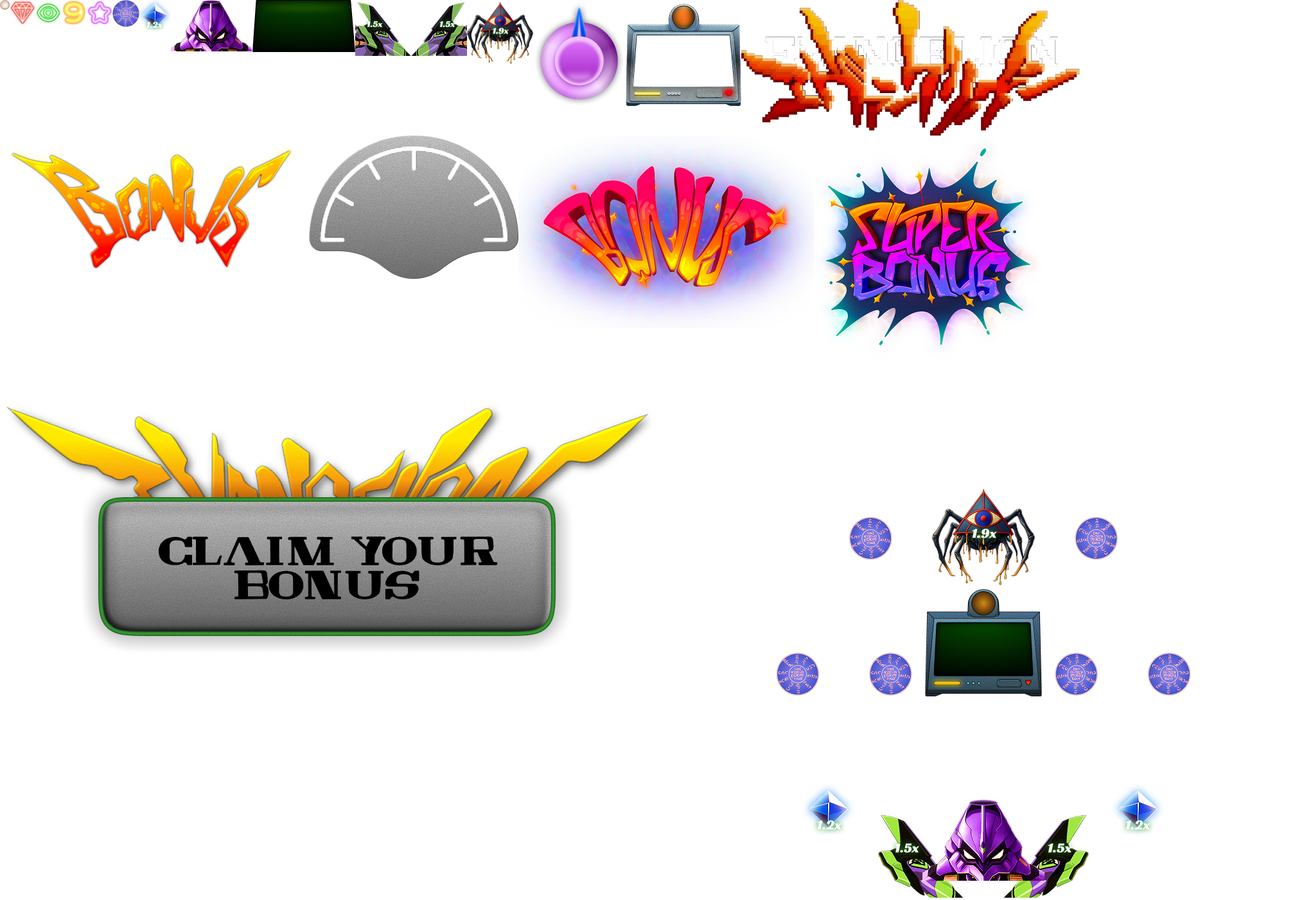
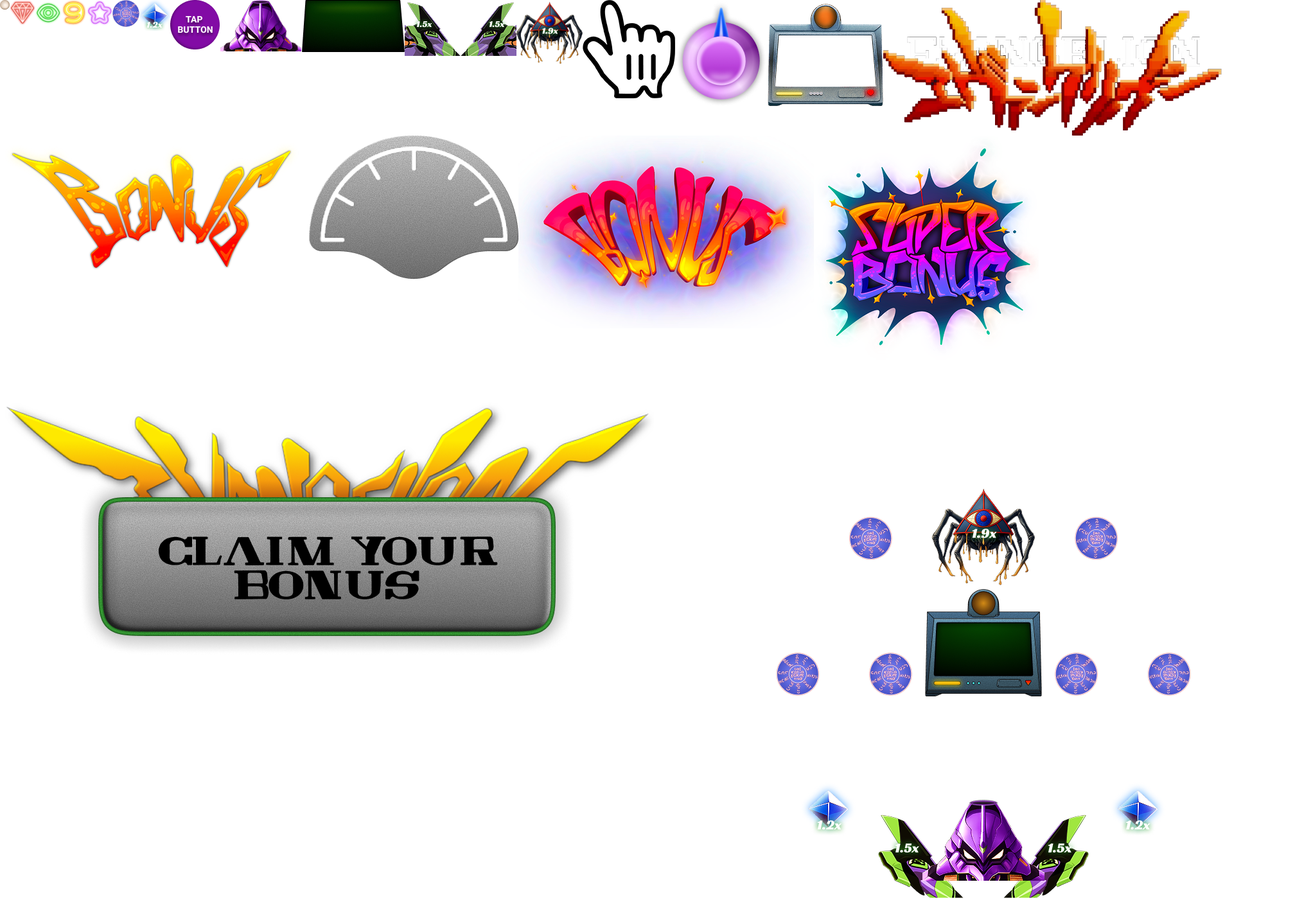
preloader, arrow rotation

Changed region(s): [[0.1233, 0.0, 0.9247, 0.1535], [0.8938, 0.0, 0.9247, 0.0307]]

diff --git a/dist/assets/index-rZJDMdEi.js b/dist/assets/index-rZJDMdEi.js
@@ -6342,4 +6342,4 @@ return new `+this.key+`();
  * @author       Richard Davey <rich@phaser.io>
  * @copyright    2013-2024 Phaser Studio Inc.
  * @license      {@link https://opensource.org/licenses/MIT|MIT License}
- */p.exports={Format:t(27902),Pad:t(41836),RemoveAt:t(33628),Reverse:t(27671),UppercaseFirst:t(35355),UUID:t(45650)}}},ft={};function ot(p){var S=ft[p];if(S!==void 0)return S.exports;var t=ft[p]={exports:{}};return rt[p](t,t.exports,ot),t.exports}ot.g=function(){if(typeof globalThis=="object")return globalThis;try{return this||new Function("return this")()}catch{if(typeof window=="object")return window}}();var dt=ot(85454);return dt})())})(Ot);var Bt=Ot.exports;const Ft=wt(Bt),Pt=1026,At=840,Lt=0,gt=.99,Mt=105,Rt=235;class It extends Ft.Scene{constructor(){super(...arguments),this.isProcessing=!1,this.isMoving=!1,this.gameContainer=null,this.tapeContainer=null,this.gameBackContainer=null,this.isDragging=!1,this.backContainer=null,this.uiContainer=null,this.speedBtn=null,this.speedBack=null,this.bonusSprite=null,this.downloadBtn=null,this.endTitle=null,this.step=0,this.soundBtn=null,this.tutorSprite=null,this.tutorTween=null,this.ambSound=null,this.isLooping=!0,this.video=null,this.fieldSprite=null,this.frameSprite=null,this.ballSprite=null,this.t1active=!1,this.time1=null,this.angle1=null,this.ambSound=null,this.isSoundEnable=!0,this.gameStep=0,this.bg=null,this.bgScale=1,this.bgItemScale=1,this.fieldScale=1,this.pushScale=1,this.shiftX=0,this.shiftY=0,this.offsetX=0,this.fieldW=1026,this.fielfH=840}preload(){this.load.atlas("main","assets/pach1.png","assets/pach1.json"),this.load.image("endbg","assets/background.jpg"),this.load.image("fr1","assets/frame.png"),this.load.video("v1","assets/v1.mp4"),this.load.audio("ball","assets/ball.mp3"),this.load.audio("click","assets/click.mp3"),this.load.audio("sndbg","assets/background.mp3")}create(){this.bgScale=window.innerWidth>window.innerHeight?this.scale.width/2048:this.scale.height/2048,this.bg=this.add.sprite(this.scale.width/2,this.scale.height/2,"endbg").setOrigin(.5,.5).setScale(this.bgScale),this.backContainer=this.add.container(),this.gameBackContainer=this.add.container(),this.video=this.add.video(this.fieldW/2,18+this.fielfH/2,"v1").setOrigin(.5,.5).setMute(!0),this.video.setScale(.72),this.video.play(!0),this.video.on("created",()=>{console.log("v created"),this.video.video.currentTime=0,this.video.play(!0)}),this.gameBackContainer.add(this.video),this.frameSprite=this.add.sprite(this.fieldW/2,18+this.fielfH/2,"fr1").setOrigin(.5,.5).setScale(.95),this.fieldSprite=this.add.sprite(this.fieldW/2,this.fielfH/2,"main","board.png").setOrigin(.5,.5),this.gameBackContainer.add(this.frameSprite),this.gameBackContainer.add(this.fieldSprite),this.ballSprite=this.add.sprite(Mt,Rt,"main","ball.png").setOrigin(.5,.5).setVisible(!1),this.gameContainer=this.add.container(),this.gameScaleContainer=this.add.container(),this.gameContainer.add(this.gameScaleContainer),this.gameScaleContainer.add(this.ballSprite),this.uiContainer=this.add.container(),this.speedBack=this.add.sprite(850,750,"main","button_back.png").setScale(.8).setOrigin(.5,.5),this.speedBtn=this.add.sprite(850,770,"main","button.png").setScale(.8).setOrigin(.5,.7).setInteractive(),this.bonusSprite=this.add.sprite(Pt/2,-1400,"main","bonus.png").setOrigin(.5,.5).setScale(.6),this.uiContainer.add(this.speedBack),this.uiContainer.add(this.speedBtn),this.uiContainer.add(this.bonusSprite),this.gameBackContainer.setScale(this.fieldScale),this.gameContainer.setScale(this.fieldScale),this.uiContainer.setScale(this.fieldScale),this.scale.on("resize",this.resizeGame,this),this.resizeGame(),this.speedBtn.on("pointerdown",()=>{this.isMoving||(this.step++,this.sound.play("click"),this.video.video.currentTime=2.03,this.video.play(!0),this.step==1?this.startGT1():this.step==3?this.startRT1():this.step==5&&this.startBT1())}),this.startGame(),this.ambSound=this.sound.add("sndbg"),this.ambSound.play({loop:!0})}newStep(){(this.step==2||this.step==4||this.step==6||this.step==7)&&(this.step==6&&this.bonusSprite.setFrame("super bonus.png"),this.step==7&&this.bonusSprite.setFrame("cta.png"),this.video.stop(),this.video.video.currentTime=this.step>=6?4.24:0,this.video.play(!0),this.isMoving=!0,this.tweens.add({targets:this.bonusSprite,y:At/2,duration:300,ease:"Linear",onComplete:()=>{this.tweens.add({targets:this.bonusSprite,y:At/2,duration:this.step==6?1500:1200,ease:"Sine.In",onComplete:()=>{console.log(this.step),this.step<7&&(this.bonusSprite.y=-1400,this.step<6&&(this.isMoving=!1)),this.step==6&&(this.step++,this.newStep())}})}}))}startGT1(){this.isMoving=!0,this.ballSprite.x=Mt,this.ballSprite.y=Rt,this.ballSprite.setVisible(!0);const et=75+265/2,rt=340;this.tweens.add({targets:this.ballSprite,x:et,duration:500,ease:"Linear",onComplete:()=>{this.tweens.add({targets:this.ballSprite,x:rt,duration:500,ease:"Linear"}),this.tweens.add({targets:this.ballSprite,y:230,duration:500,ease:"Sine.In",onComplete:()=>{this.startGT2()}})}}),this.tweens.add({targets:this.ballSprite,y:40,duration:500,ease:"Sine.Out"})}startGT2(){this.tweens.add({targets:this.ballSprite,x:200,duration:500,ease:"Linear",onComplete:()=>{this.startGT3()}}),this.tweens.add({targets:this.ballSprite,y:410,duration:500,ease:"Sine.In"})}startGT3(){this.tweens.add({targets:this.ballSprite,x:275,duration:500,ease:"Linear",onComplete:()=>{this.startEndGT()}}),this.tweens.add({targets:this.ballSprite,y:510,duration:500,ease:"Sine.In"})}startEndGT(){const p="Sine.InOut";this.tweens.add({targets:this.ballSprite,x:261,y:545,duration:150,ease:p,onComplete:()=>{this.tweens.add({targets:this.ballSprite,x:275,y:510+2*35,duration:150,ease:p,onComplete:()=>{this.tweens.add({targets:this.ballSprite,x:261,y:510+3*35,duration:150,ease:p,onComplete:()=>{this.tweens.add({targets:this.ballSprite,x:275,y:510+4*35+20,duration:150,ease:p,onComplete:()=>{this.ballSprite.setVisible(!1),this.isMoving=!1,this.step++,this.sound.play("ball"),this.newStep()}})}})}})}})}startRT1(){this.isMoving=!0,this.ballSprite.x=Mt,this.ballSprite.y=Rt,this.ballSprite.setVisible(!0);const et=75+265/2,rt=340;this.tweens.add({targets:this.ballSprite,x:et,duration:500,ease:"Linear",onComplete:()=>{this.tweens.add({targets:this.ballSprite,x:rt,duration:500,ease:"Linear"}),this.tweens.add({targets:this.ballSprite,y:230,duration:500,ease:"Sine.In",onComplete:()=>{this.startRT2()}})}}),this.tweens.add({targets:this.ballSprite,y:40,duration:500,ease:"Sine.Out"})}startRT2(){this.tweens.add({targets:this.ballSprite,x:200,duration:500,ease:"Linear",onComplete:()=>{this.startRT3()}}),this.tweens.add({targets:this.ballSprite,y:410,duration:500,ease:"Sine.In"})}startRT3(){this.tweens.add({targets:this.ballSprite,x:275,duration:500,ease:"Linear",onComplete:()=>{this.startERT1()}}),this.tweens.add({targets:this.ballSprite,y:510,duration:500,ease:"Sine.In"})}startERT1(){this.ballSprite.x=275,this.ballSprite.y=510;const ft=275,ot=510,dt=150,p="Sine.InOut";this.tweens.chain({targets:this.ballSprite,tweens:[{x:ft+30,y:ot-20,duration:dt,ease:p},{x:ft+18,y:ot+40,duration:dt*1.1,ease:p}],onComplete:()=>{this.startERT2()}})}startERT2(){this.tweens.add({targets:this.ballSprite,x:374,duration:250,ease:"Linear",onComplete:()=>{this.startERT3()}}),this.tweens.add({targets:this.ballSprite,y:586,duration:250,ease:"Cubic.In"})}startERT3(){this.tweens.add({targets:this.ballSprite,x:435,duration:200,ease:"Linear",onComplete:()=>{this.startERT4()}}),this.tweens.add({targets:this.ballSprite,y:556,duration:200/2,ease:"Easy.In",yoyo:!0})}startERT4(){const rt=Pt/2,ft=685;this.tweens.add({targets:this.ballSprite,x:rt,duration:250,ease:"Linear",onComplete:()=>{this.ballSprite.setVisible(!1),this.isMoving=!1,this.step++,this.sound.play("ball"),this.newStep()}}),this.tweens.add({targets:this.ballSprite,y:ft,duration:250,ease:"Cubic.In"})}startBT1(){console.log(this.time.now),this.isMoving=!0,this.ballSprite.x=Mt,this.ballSprite.y=Rt,this.ballSprite.setVisible(!0);const et=280,rt=454;this.tweens.add({targets:this.ballSprite,x:et,duration:500*gt,ease:"Linear",onComplete:()=>{this.tweens.add({targets:this.ballSprite,x:rt,duration:500,ease:"Linear"}),this.tweens.add({targets:this.ballSprite,y:136,duration:500*gt,ease:"Sine.In",onComplete:()=>{this.startBT2()}})}}),this.tweens.add({targets:this.ballSprite,y:70,duration:500*gt,ease:"Sine.Out"})}startBT2(){const ft=100*gt,ot="Sine.InOut";this.tweens.chain({targets:this.ballSprite,tweens:[{x:484,y:136,duration:ft,ease:ot},{x:514,y:199,duration:ft*1.6,ease:ot}],onComplete:()=>{this.startBT3()}})}startBT3(){this.tweens.add({targets:this.ballSprite,x:575,duration:300*gt,ease:"Linear",onComplete:()=>{}}),this.tweens.add({targets:this.ballSprite,y:96,duration:200*gt,ease:"Sine.In",onComplete:()=>{this.tweens.add({targets:this.ballSprite,y:136,duration:100*gt,ease:"Sine.In",onComplete:()=>{this.startBT4()}})}})}startBT4(){this.tweens.add({targets:this.ballSprite,x:660,duration:260*gt,ease:"Linear",onComplete:()=>{}}),this.tweens.add({targets:this.ballSprite,y:175,duration:260*gt,ease:"Sine.In",onComplete:()=>{this.startBT5()}})}startBT5(){this.tweens.add({targets:this.ballSprite,x:739,duration:360*gt,ease:"Linear",onComplete:()=>{}}),this.tweens.add({targets:this.ballSprite,y:295,duration:360*gt,ease:"Sine.In",onComplete:()=>{this.startBT6()}})}startBT6(){this.tweens.add({targets:this.ballSprite,x:620,duration:460*gt,ease:"Linear",onComplete:()=>{}}),this.tweens.add({targets:this.ballSprite,y:495,duration:460*gt,ease:"Sine.In",onComplete:()=>{this.startBT7()}})}startBT7(){this.tweens.add({targets:this.ballSprite,x:625,duration:260*gt,ease:"Linear",onComplete:()=>{}}),this.tweens.add({targets:this.ballSprite,y:585,duration:260*gt,ease:"Sine.In",onComplete:()=>{this.startBT8()}})}startBT8(){this.tweens.add({targets:this.ballSprite,x:645,duration:260*gt,ease:"Linear",onComplete:()=>{}}),this.tweens.add({targets:this.ballSprite,y:720,duration:260*gt,ease:"Sine.In",onComplete:()=>{this.ballSprite.setVisible(!1),this.isMoving=!1,this.step++,this.sound.play("ball"),console.log(this.time.now),this.newStep()}})}startGame(){}stopTutorial(){}update(){if(this.isLooping&&this.video.isPlaying){const et=this.video.getCurrentTime();et>=1.15&&this.step==0&&(this.video.stop(),this.video.video.currentTime=0,this.video.play(!0)),et>=4.06&&(this.step==1||this.step==3)&&(this.video.stop(),this.video.video.currentTime=2.03,this.video.play(!0)),et>=7&&this.step==5&&this.video.stop(),et>=1.15&&(this.step==2||this.step==4)&&(this.video.stop(),this.video.video.currentTime=this.step==2?0:.24,this.video.play(!0)),et>=7.2&&this.step==6&&(this.video.stop(),this.video.video.currentTime=4.24,this.video.play(!0))}}startEndScreen(){}resizeGame(){let et=1,rt=1,ft=0,ot=0,dt=(window.innerWidth>window.innerHeight,0);window.innerWidth>window.innerHeight?(et=window.innerHeight/window.innerWidth,ft=1024*(1-et)):(rt=window.innerWidth/window.innerHeight,ot=1024*(1-rt)),this.bgScale=window.innerWidth>window.innerHeight?this.scale.width/2048:this.scale.height/2048,this.fieldScale=window.innerWidth<window.innerHeight?this.scale.width/Pt:this.scale.height/At,this.shiftX=(this.scale.width-this.fieldScale*(dt*2+Pt))/2,this.shiftY=(this.scale.height-this.fieldScale*At)/2-20,this.gameBackContainer.setScale(this.fieldScale*et,this.fieldScale*rt),this.gameContainer.setScale(this.fieldScale*et,this.fieldScale*rt),this.uiContainer.setScale(this.fieldScale*et,this.fieldScale*rt),this.gameBackContainer.x=this.shiftX+ft-2*(Lt-dt),this.gameContainer.x=this.shiftX+ft-2*(Lt-dt),this.uiContainer.x=this.shiftX+ft-2*(Lt-dt);const p=60;this.gameBackContainer.y=this.shiftY+ot-p,this.gameContainer.y=this.shiftY+ot-p,this.uiContainer.y=this.shiftY+ot-p;const S=et>rt?et/rt:rt/et;this.bg.setScale(this.bgScale*et*S,this.bgScale*rt*S),this.bg.x=this.scale.width/2,this.bg.y=this.scale.height/2}}const Gt={type:Ft.AUTO,width:1920,height:1920,parent:"phaser-example",backgroundColor:"#ffffff",scene:[It],scale:{mode:Ft.Scale.SHOW_ALL}};new Ft.Game(Gt);
+ */p.exports={Format:t(27902),Pad:t(41836),RemoveAt:t(33628),Reverse:t(27671),UppercaseFirst:t(35355),UUID:t(45650)}}},ft={};function ot(p){var S=ft[p];if(S!==void 0)return S.exports;var t=ft[p]={exports:{}};return rt[p](t,t.exports,ot),t.exports}ot.g=function(){if(typeof globalThis=="object")return globalThis;try{return this||new Function("return this")()}catch{if(typeof window=="object")return window}}();var dt=ot(85454);return dt})())})(Ot);var Bt=Ot.exports;const Ft=wt(Bt),Pt=1026,At=840,Lt=0,gt=.99,Mt=105,Rt=235;class It extends Ft.Scene{constructor(){super("MainGame"),this.isProcessing=!1,this.isMoving=!1,this.gameContainer=null,this.tapeContainer=null,this.gameBackContainer=null,this.isDragging=!1,this.backContainer=null,this.uiContainer=null,this.speedBtn=null,this.speedBack=null,this.tapBtn=null,this.tapLeft=null,this.tapRight=null,this.bonusSprite=null,this.logoSprite=null,this.downloadBtn=null,this.endTitle=null,this.step=0,this.soundBtn=null,this.tutorSprite=null,this.tutorTween=null,this.ambSound=null,this.isLooping=!0,this.video=null,this.fieldSprite=null,this.frameSprite=null,this.ballSprite=null,this.t1active=!1,this.time1=null,this.angle1=null,this.ambSound=null,this.isSoundEnable=!0,this.gameStep=0,this.bg=null,this.bgScale=1,this.bgItemScale=1,this.fieldScale=1,this.pushScale=1,this.shiftX=0,this.shiftY=0,this.offsetX=0,this.fieldW=1026,this.fielfH=840}create(){this.bgScale=window.innerWidth>window.innerHeight?this.scale.width/2048:this.scale.height/2048,this.bg=this.add.sprite(this.scale.width/2,this.scale.height/2,"endbg").setOrigin(.5,.5).setScale(this.bgScale),this.backContainer=this.add.container(),this.gameBackContainer=this.add.container(),this.video=this.add.video(this.fieldW/2,18+this.fielfH/2,"v1").setOrigin(.5,.5).setMute(!0),this.video.setScale(.72),this.video.play(!0),this.video.on("created",()=>{console.log("v created"),this.video.video.currentTime=0,this.video.play(!0)}),this.gameBackContainer.add(this.video),this.frameSprite=this.add.sprite(this.fieldW/2,18+this.fielfH/2,"fr1").setOrigin(.5,.5).setScale(.95),this.fieldSprite=this.add.sprite(this.fieldW/2,this.fielfH/2,"main","board.png").setOrigin(.5,.5),this.gameBackContainer.add(this.frameSprite),this.gameBackContainer.add(this.fieldSprite),this.ballSprite=this.add.sprite(Mt,Rt,"main","ball.png").setOrigin(.5,.5).setVisible(!1),this.gameContainer=this.add.container(),this.gameScaleContainer=this.add.container(),this.gameContainer.add(this.gameScaleContainer),this.gameScaleContainer.add(this.ballSprite),this.uiContainer=this.add.container(),this.speedBack=this.add.sprite(850,750,"main","button_back.png").setScale(.8).setOrigin(.5,.5),this.speedBtn=this.add.sprite(850,750,"main","button.png").setScale(.8).setOrigin(.5,.57).setInteractive(),this.tapBtn=this.add.sprite(850,750,"main","tap.png").setScale(.8).setOrigin(.5,.5),this.tapLeft=this.add.rectangle(750,720,90,150,0,0).setInteractive(),this.tapRight=this.add.rectangle(950,720,90,150,0,0).setInteractive(),this.bonusSprite=this.add.sprite(Pt/2,-1400,"main","bonus.png").setOrigin(.5,.5).setScale(1.8),this.logoSprite=this.add.sprite(Pt/2,-50,"main","logo.png").setOrigin(.5,1).setScale(.8),this.uiContainer.add(this.speedBack),this.uiContainer.add(this.speedBtn),this.uiContainer.add(this.tapBtn),this.uiContainer.add(this.tapLeft),this.uiContainer.add(this.tapRight),this.uiContainer.add(this.bonusSprite),this.uiContainer.add(this.logoSprite),this.gameBackContainer.setScale(this.fieldScale),this.gameContainer.setScale(this.fieldScale),this.uiContainer.setScale(this.fieldScale),this.scale.on("resize",this.resizeGame,this),this.resizeGame(),this.tapLeft.on("pointerdown",()=>{this.speedBtn.angle>=-90&&this.speedBtn.setAngle(this.speedBtn.angle-15)}),this.tapRight.on("pointerdown",()=>{this.speedBtn.angle<=90&&this.speedBtn.setAngle(this.speedBtn.angle+15)}),this.speedBtn.on("pointerdown",()=>{this.isMoving||(this.step++,this.sound.play("click"),this.video.video.currentTime=2.03,this.video.play(!0),this.step==1?this.startGT1():this.step==3?this.startRT1():this.step==5&&this.startBT1())}),this.startGame(),this.ambSound=this.sound.add("sndbg"),this.ambSound.play({loop:!0})}newStep(){(this.step==2||this.step==4||this.step==6||this.step==7)&&(this.step==6&&this.bonusSprite.setFrame("super bonus.png"),this.step==7&&(this.bonusSprite.setFrame("cta.png"),this.bonusSprite.setScale(.8)),this.step<7&&(this.video.stop(),this.video.video.currentTime=this.step>=6?4.24:0,this.video.play(!0)),this.isMoving=!0,this.tweens.add({targets:this.bonusSprite,y:At/2,duration:300,ease:"Linear",onComplete:()=>{this.tweens.add({targets:this.bonusSprite,y:At/2,duration:this.step==6?1500:1200,ease:"Sine.In",onComplete:()=>{console.log(this.step),this.step<7&&(this.bonusSprite.y=-1400,this.step<6&&(this.isMoving=!1)),this.step==6&&(this.step++,this.newStep())}})}}))}startGT1(){this.isMoving=!0,this.ballSprite.x=Mt,this.ballSprite.y=Rt,this.ballSprite.setVisible(!0);const et=75+265/2,rt=340;this.tweens.add({targets:this.ballSprite,x:et,duration:500,ease:"Linear",onComplete:()=>{this.tweens.add({targets:this.ballSprite,x:rt,duration:500,ease:"Linear"}),this.tweens.add({targets:this.ballSprite,y:230,duration:500,ease:"Sine.In",onComplete:()=>{this.startGT2()}})}}),this.tweens.add({targets:this.ballSprite,y:40,duration:500,ease:"Sine.Out"})}startGT2(){this.tweens.add({targets:this.ballSprite,x:200,duration:500,ease:"Linear",onComplete:()=>{this.startGT3()}}),this.tweens.add({targets:this.ballSprite,y:410,duration:500,ease:"Sine.In"})}startGT3(){this.tweens.add({targets:this.ballSprite,x:275,duration:500,ease:"Linear",onComplete:()=>{this.startEndGT()}}),this.tweens.add({targets:this.ballSprite,y:510,duration:500,ease:"Sine.In"})}startEndGT(){const p="Sine.InOut";this.tweens.add({targets:this.ballSprite,x:261,y:545,duration:150,ease:p,onComplete:()=>{this.tweens.add({targets:this.ballSprite,x:275,y:510+2*35,duration:150,ease:p,onComplete:()=>{this.tweens.add({targets:this.ballSprite,x:261,y:510+3*35,duration:150,ease:p,onComplete:()=>{this.tweens.add({targets:this.ballSprite,x:275,y:510+4*35+20,duration:150,ease:p,onComplete:()=>{this.ballSprite.setVisible(!1),this.isMoving=!1,this.step++,this.sound.play("ball"),this.newStep()}})}})}})}})}startRT1(){this.isMoving=!0,this.ballSprite.x=Mt,this.ballSprite.y=Rt,this.ballSprite.setVisible(!0);const et=75+265/2,rt=340;this.tweens.add({targets:this.ballSprite,x:et,duration:500,ease:"Linear",onComplete:()=>{this.tweens.add({targets:this.ballSprite,x:rt,duration:500,ease:"Linear"}),this.tweens.add({targets:this.ballSprite,y:230,duration:500,ease:"Sine.In",onComplete:()=>{this.startRT2()}})}}),this.tweens.add({targets:this.ballSprite,y:40,duration:500,ease:"Sine.Out"})}startRT2(){this.tweens.add({targets:this.ballSprite,x:200,duration:500,ease:"Linear",onComplete:()=>{this.startRT3()}}),this.tweens.add({targets:this.ballSprite,y:410,duration:500,ease:"Sine.In"})}startRT3(){this.tweens.add({targets:this.ballSprite,x:275,duration:500,ease:"Linear",onComplete:()=>{this.startERT1()}}),this.tweens.add({targets:this.ballSprite,y:510,duration:500,ease:"Sine.In"})}startERT1(){this.ballSprite.x=275,this.ballSprite.y=510;const ft=275,ot=510,dt=150,p="Sine.InOut";this.tweens.chain({targets:this.ballSprite,tweens:[{x:ft+30,y:ot-20,duration:dt,ease:p},{x:ft+18,y:ot+40,duration:dt*1.1,ease:p}],onComplete:()=>{this.startERT2()}})}startERT2(){this.tweens.add({targets:this.ballSprite,x:374,duration:250,ease:"Linear",onComplete:()=>{this.startERT3()}}),this.tweens.add({targets:this.ballSprite,y:586,duration:250,ease:"Cubic.In"})}startERT3(){this.tweens.add({targets:this.ballSprite,x:435,duration:200,ease:"Linear",onComplete:()=>{this.startERT4()}}),this.tweens.add({targets:this.ballSprite,y:556,duration:200/2,ease:"Easy.In",yoyo:!0})}startERT4(){const rt=Pt/2,ft=685;this.tweens.add({targets:this.ballSprite,x:rt,duration:250,ease:"Linear",onComplete:()=>{this.ballSprite.setVisible(!1),this.isMoving=!1,this.step++,this.sound.play("ball"),this.newStep()}}),this.tweens.add({targets:this.ballSprite,y:ft,duration:250,ease:"Cubic.In"})}startBT1(){console.log(this.time.now),this.isMoving=!0,this.ballSprite.x=Mt,this.ballSprite.y=Rt,this.ballSprite.setVisible(!0);const et=280,rt=454;this.tweens.add({targets:this.ballSprite,x:et,duration:500*gt,ease:"Linear",onComplete:()=>{this.tweens.add({targets:this.ballSprite,x:rt,duration:500,ease:"Linear"}),this.tweens.add({targets:this.ballSprite,y:136,duration:500*gt,ease:"Sine.In",onComplete:()=>{this.startBT2()}})}}),this.tweens.add({targets:this.ballSprite,y:70,duration:500*gt,ease:"Sine.Out"})}startBT2(){const ft=100*gt,ot="Sine.InOut";this.tweens.chain({targets:this.ballSprite,tweens:[{x:484,y:136,duration:ft,ease:ot},{x:514,y:199,duration:ft*1.6,ease:ot}],onComplete:()=>{this.startBT3()}})}startBT3(){this.tweens.add({targets:this.ballSprite,x:575,duration:300*gt,ease:"Linear",onComplete:()=>{}}),this.tweens.add({targets:this.ballSprite,y:96,duration:200*gt,ease:"Sine.In",onComplete:()=>{this.tweens.add({targets:this.ballSprite,y:136,duration:100*gt,ease:"Sine.In",onComplete:()=>{this.startBT4()}})}})}startBT4(){this.tweens.add({targets:this.ballSprite,x:660,duration:260*gt,ease:"Linear",onComplete:()=>{}}),this.tweens.add({targets:this.ballSprite,y:175,duration:260*gt,ease:"Sine.In",onComplete:()=>{this.startBT5()}})}startBT5(){this.tweens.add({targets:this.ballSprite,x:739,duration:360*gt,ease:"Linear",onComplete:()=>{}}),this.tweens.add({targets:this.ballSprite,y:295,duration:360*gt,ease:"Sine.In",onComplete:()=>{this.startBT6()}})}startBT6(){this.tweens.add({targets:this.ballSprite,x:620,duration:460*gt,ease:"Linear",onComplete:()=>{}}),this.tweens.add({targets:this.ballSprite,y:495,duration:460*gt,ease:"Sine.In",onComplete:()=>{this.startBT7()}})}startBT7(){this.tweens.add({targets:this.ballSprite,x:625,duration:260*gt,ease:"Linear",onComplete:()=>{}}),this.tweens.add({targets:this.ballSprite,y:585,duration:260*gt,ease:"Sine.In",onComplete:()=>{this.startBT8()}})}startBT8(){this.tweens.add({targets:this.ballSprite,x:645,duration:260*gt,ease:"Linear",onComplete:()=>{}}),this.tweens.add({targets:this.ballSprite,y:720,duration:260*gt,ease:"Sine.In",onComplete:()=>{this.ballSprite.setVisible(!1),this.isMoving=!1,this.step++,this.sound.play("ball"),console.log(this.time.now),this.newStep()}})}startGame(){}stopTutorial(){}update(){if(this.isLooping&&this.video.isPlaying){const et=this.video.getCurrentTime();et>=1.15&&this.step==0&&(this.video.stop(),this.video.video.currentTime=0,this.video.play(!0)),et>=4.06&&(this.step==1||this.step==3)&&(this.video.stop(),this.video.video.currentTime=1.5,this.video.play(!0)),et>=7&&this.step==5&&this.video.stop(),et>=1.15&&(this.step==2||this.step==4)&&(this.video.stop(),this.video.video.currentTime=this.step==2?0:.24,this.video.play(!0)),et>=7.1&&this.step>5&&(console.log("loop",this.step),this.video.stop(),this.video.video.currentTime=4.24,this.video.play(!0))}}startEndScreen(){}resizeGame(){let et=1,rt=1,ft=0,ot=0,dt=(window.innerWidth>window.innerHeight,0);window.innerWidth>window.innerHeight?(et=window.innerHeight/window.innerWidth,ft=1024*(1-et)):(rt=window.innerWidth/window.innerHeight,ot=1024*(1-rt)),this.bgScale=window.innerWidth>window.innerHeight?this.scale.width/2048:this.scale.height/2048,this.fieldScale=window.innerWidth<window.innerHeight?this.scale.width/Pt:this.scale.height/At,this.shiftX=(this.scale.width-this.fieldScale*(dt*2+Pt))/2,this.shiftY=(this.scale.height-this.fieldScale*At)/2-20,this.gameBackContainer.setScale(this.fieldScale*et,this.fieldScale*rt),this.gameContainer.setScale(this.fieldScale*et,this.fieldScale*rt),this.uiContainer.setScale(this.fieldScale*et,this.fieldScale*rt),this.gameBackContainer.x=this.shiftX+ft-2*(Lt-dt),this.gameContainer.x=this.shiftX+ft-2*(Lt-dt),this.uiContainer.x=this.shiftX+ft-2*(Lt-dt);const p=60;this.gameBackContainer.y=this.shiftY+ot-p,this.gameContainer.y=this.shiftY+ot-p,this.uiContainer.y=this.shiftY+ot-p;const S=et>rt?et/rt:rt/et;this.bg.setScale(this.bgScale*et*S,this.bgScale*rt*S),this.bg.x=this.scale.width/2,this.bg.y=this.scale.height/2}}class Gt extends Phaser.Scene{constructor(){super("Preloader")}preload(){this.add.text(400,300,"Loading...",{fontSize:"32px",fill:"#ffffff"}).setOrigin(.5),this.load.atlas("main","assets/pach1.png","assets/pach1.json"),this.load.image("endbg","assets/background.jpg"),this.load.image("fr1","assets/frame.png"),this.load.video("v1","assets/v1.mp4"),this.load.audio("ball","assets/ball.mp3"),this.load.audio("click","assets/click.mp3"),this.load.audio("sndbg","assets/background.mp3")}create(){this.scene.start("MainGame")}}const Nt={type:Ft.AUTO,width:1920,height:1920,parent:"phaser-example",backgroundColor:"#ffffff",scene:[Gt,It],scale:{mode:Ft.Scale.SHOW_ALL}};new Ft.Game(Nt);

diff --git a/src/Game.ts b/src/Game.ts
@@ -31,7 +31,11 @@ export default class MainGame extends Phaser.Scene {
 
     speedBtn = null;
     speedBack = null;
+    tapBtn = null;
+    tapLeft = null;
+    tapRight = null;
     bonusSprite = null;
+    logoSprite = null;
 
     downloadBtn = null;
     endTitle = null;
@@ -70,17 +74,10 @@ export default class MainGame extends Phaser.Scene {
     fieldW = 1026;
     fielfH = 840;
 
-    preload() {
-        this.load.atlas("main", "assets/pach1.png", "assets/pach1.json");
-
-        //this.load.image("start", "assets/startlogo.png");
-        this.load.image("endbg", "assets/background.jpg");
-        this.load.image("fr1", "assets/frame.png");
-        this.load.video("v1", "assets/v1.mp4");
-        this.load.audio("ball", "assets/ball.mp3");
-        this.load.audio("click", "assets/click.mp3");
-        this.load.audio("sndbg", "assets/background.mp3");
+    constructor() {
+        super('MainGame');
     }
+
 
     create() {
         this.bgScale =
@@ -146,19 +143,40 @@ export default class MainGame extends Phaser.Scene {
             .setScale(0.8)
             .setOrigin(0.5, 0.5);
         this.speedBtn = this.add
-            .sprite(850, 770, "main", "button.png")
+            .sprite(850, 750, "main", "button.png")
             .setScale(0.8)
-            .setOrigin(0.5, 0.7)
+            .setOrigin(0.5, 0.57)
             .setInteractive();
+
+
+        this.tapBtn = this.add
+            .sprite(850, 750, "main", "tap.png")
+            .setScale(0.8)
+            .setOrigin(0.5, 0.5)
+
+        this.tapLeft =  this.add.rectangle(750, 720, 90, 150, 0x000000, 0).setInteractive();
+        this.tapRight =  this.add.rectangle(950, 720, 90, 150, 0x000000, 0).setInteractive();
+        
+            
 
         this.bonusSprite = this.add
             .sprite(F_W / 2, -1400, "main", "bonus.png")
             .setOrigin(0.5, 0.5)
-            .setScale(0.6);
+            .setScale(1.8);
+
+            
+        this.logoSprite = this.add
+            .sprite(F_W / 2, -50, "main", "logo.png")
+            .setOrigin(0.5, 1).setScale(0.8);
+            
 
         this.uiContainer.add(this.speedBack);
         this.uiContainer.add(this.speedBtn);
+        this.uiContainer.add(this.tapBtn);
+        this.uiContainer.add(this.tapLeft);
+        this.uiContainer.add(this.tapRight);
         this.uiContainer.add(this.bonusSprite);
+        this.uiContainer.add(this.logoSprite);
 
         this.gameBackContainer.setScale(this.fieldScale);
         this.gameContainer.setScale(this.fieldScale);
@@ -167,6 +185,19 @@ export default class MainGame extends Phaser.Scene {
         this.scale.on("resize", this.resizeGame, this);
         this.resizeGame();
 
+
+        this.tapLeft.on("pointerdown", () => {
+
+            
+            if (this.speedBtn.angle>=-90)
+                this.speedBtn.setAngle(this.speedBtn.angle-15);
+        });
+
+        this.tapRight.on("pointerdown", () => {
+
+            if (this.speedBtn.angle<=90)
+                this.speedBtn.setAngle(this.speedBtn.angle+15);
+        });
         
         this.speedBtn.on("pointerdown", () => {
             if (!this.isMoving) {
@@ -200,13 +231,17 @@ export default class MainGame extends Phaser.Scene {
 
             if (this.step == 7) { 
                 this.bonusSprite.setFrame("cta.png");
+                this.bonusSprite.setScale(0.8);
                 
             }
 
+            if (this.step<7)
+            {
             this.video.stop();
 
             this.video.video.currentTime = this.step>=6?4.24:0;
             this.video.play(true);
+            }
 
             this.isMoving = true;
 
@@ -821,7 +856,7 @@ export default class MainGame extends Phaser.Scene {
 
             if (currentTime >= 4.06 && ( this.step == 1 || this.step == 3)) {
                 this.video.stop();
-                this.video.video.currentTime = 2.03;
+                this.video.video.currentTime = 1.5;
                 this.video.play(true);
             }
 
@@ -838,7 +873,8 @@ export default class MainGame extends Phaser.Scene {
                 this.video.play(true);
             }
 
-            if (currentTime >= 7.2 && this.step == 6) {
+            if (currentTime >= 7.1 && this.step >5) {
+                console.log("loop",this.step);
                 this.video.stop();
                 this.video.video.currentTime = 4.24;
                 this.video.play(true);

diff --git a/src/Preloader.ts b/src/Preloader.ts
@@ -1,0 +1,29 @@
+export default class PreloaderScene extends Phaser.Scene {
+    constructor() {
+        super('Preloader');
+    }
+
+    preload() {
+        // --- Display a loading bar (optional but recommended) ---
+        // You'll need to add listener events for this (see resources for a full tutorial)
+        this.add.text(400, 300, 'Loading...', { fontSize: '32px', fill: '#ffffff' }).setOrigin(0.5);
+        
+        this.load.atlas("main", "assets/pach1.png", "assets/pach1.json");
+
+        //this.load.image("start", "assets/startlogo.png");
+        this.load.image("endbg", "assets/background.jpg");
+        this.load.image("fr1", "assets/frame.png");
+        this.load.video("v1", "assets/v1.mp4");
+        this.load.audio("ball", "assets/ball.mp3");
+        this.load.audio("click", "assets/click.mp3");
+        this.load.audio("sndbg", "assets/background.mp3");
+        
+        // Set a base URL or specific paths for assets if needed
+        // this.load.setBaseURL('https://labs.phaser.io'); 
+    }
+
+    create() {
+        // Assets are loaded. Start the main Game Scene
+        this.scene.start('MainGame');
+    }
+}

diff --git a/src/main.ts b/src/main.ts
@@ -1,6 +1,7 @@
 import Phaser from 'phaser'
 
 import MainGame from './Game'
+import PreloaderScene from './Preloader';
 
 const config: Phaser.Types.Core.GameConfig = {
     type: Phaser.AUTO,
@@ -8,7 +9,7 @@ const config: Phaser.Types.Core.GameConfig = {
     height: 1920,
 	parent: 'phaser-example',
 	backgroundColor: '#ffffff',
-    scene: [MainGame],
+    scene: [PreloaderScene,MainGame],
 	scale: {
 		mode: Phaser.Scale.SHOW_ALL,  
         

diff --git a/dist/index.html b/dist/index.html
@@ -25,7 +25,7 @@
                 z-index: 1;
             }
         </style>
-      <script type="module" crossorigin src="./assets/index-7-OUFckG.js"></script>
+      <script type="module" crossorigin src="./assets/index-rZJDMdEi.js"></script>
     </head>
 
     <body>
